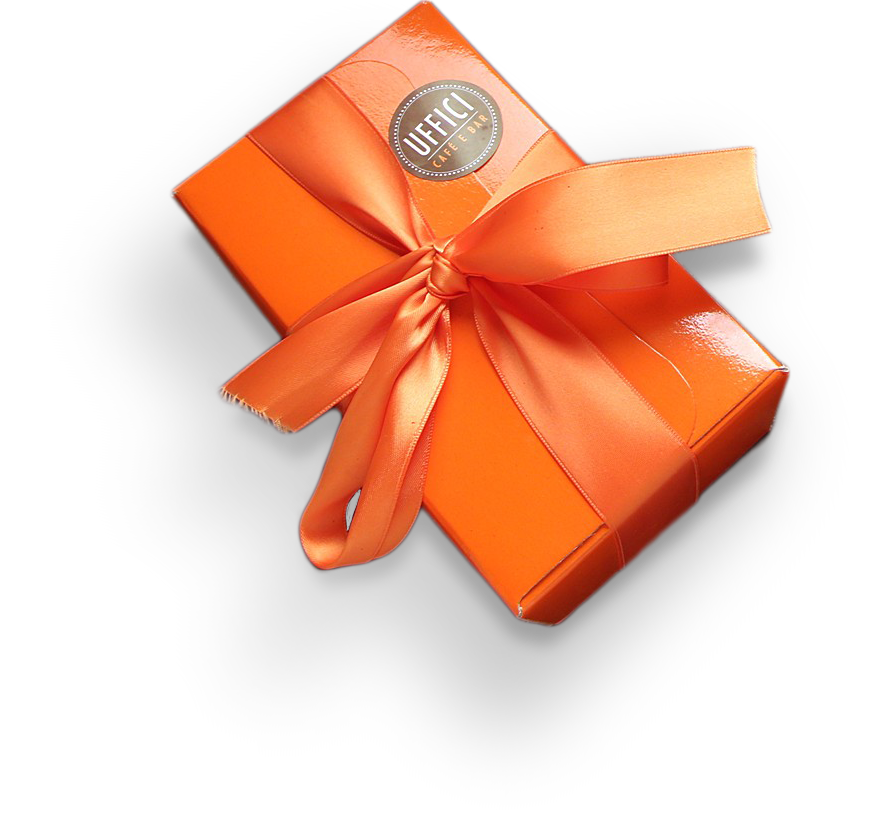
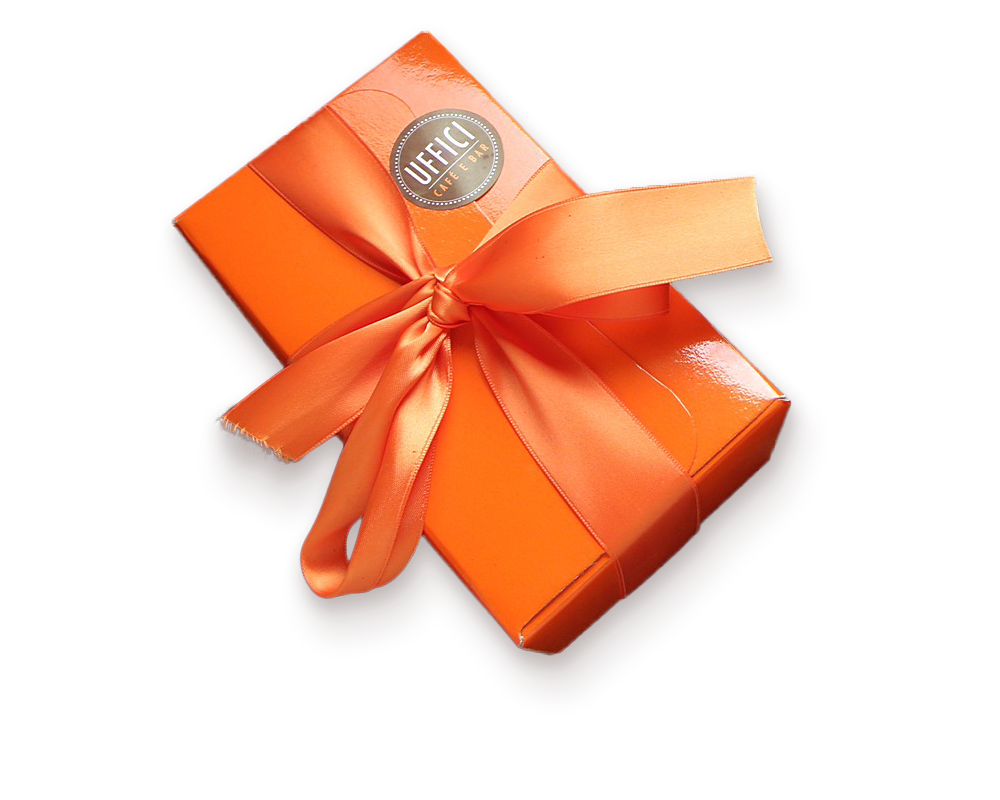
skrollr

diff --git a/js/skrollr.min.js b/js/skrollr.min.js
@@ -1,0 +1,2 @@
+/*! skrollr 0.6.30 (2015-08-12) | Alexander Prinzhorn - https://github.com/Prinzhorn/skrollr | Free to use under terms of MIT license */
+!function(a,b,c){"use strict";function d(c){if(e=b.documentElement,f=b.body,T(),ha=this,c=c||{},ma=c.constants||{},c.easing)for(var d in c.easing)W[d]=c.easing[d];ta=c.edgeStrategy||"set",ka={beforerender:c.beforerender,render:c.render,keyframe:c.keyframe},la=c.forceHeight!==!1,la&&(Ka=c.scale||1),na=c.mobileDeceleration||y,pa=c.smoothScrolling!==!1,qa=c.smoothScrollingDuration||A,ra={targetTop:ha.getScrollTop()},Sa=(c.mobileCheck||function(){return/Android|iPhone|iPad|iPod|BlackBerry/i.test(navigator.userAgent||navigator.vendor||a.opera)})(),Sa?(ja=b.getElementById(c.skrollrBody||z),ja&&ga(),X(),Ea(e,[s,v],[t])):Ea(e,[s,u],[t]),ha.refresh(),wa(a,"resize orientationchange",function(){var a=e.clientWidth,b=e.clientHeight;(b!==Pa||a!==Oa)&&(Pa=b,Oa=a,Qa=!0)});var g=U();return function h(){$(),va=g(h)}(),ha}var e,f,g={get:function(){return ha},init:function(a){return ha||new d(a)},VERSION:"0.6.30"},h=Object.prototype.hasOwnProperty,i=a.Math,j=a.getComputedStyle,k="touchstart",l="touchmove",m="touchcancel",n="touchend",o="skrollable",p=o+"-before",q=o+"-between",r=o+"-after",s="skrollr",t="no-"+s,u=s+"-desktop",v=s+"-mobile",w="linear",x=1e3,y=.004,z="skrollr-body",A=200,B="start",C="end",D="center",E="bottom",F="___skrollable_id",G=/^(?:input|textarea|button|select)$/i,H=/^\s+|\s+$/g,I=/^data(?:-(_\w+))?(?:-?(-?\d*\.?\d+p?))?(?:-?(start|end|top|center|bottom))?(?:-?(top|center|bottom))?$/,J=/\s*(@?[\w\-\[\]]+)\s*:\s*(.+?)\s*(?:;|$)/gi,K=/^(@?[a-z\-]+)\[(\w+)\]$/,L=/-([a-z0-9_])/g,M=function(a,b){return b.toUpperCase()},N=/[\-+]?[\d]*\.?[\d]+/g,O=/\{\?\}/g,P=/rgba?\(\s*-?\d+\s*,\s*-?\d+\s*,\s*-?\d+/g,Q=/[a-z\-]+-gradient/g,R="",S="",T=function(){var a=/^(?:O|Moz|webkit|ms)|(?:-(?:o|moz|webkit|ms)-)/;if(j){var b=j(f,null);for(var c in b)if(R=c.match(a)||+c==c&&b[c].match(a))break;if(!R)return void(R=S="");R=R[0],"-"===R.slice(0,1)?(S=R,R={"-webkit-":"webkit","-moz-":"Moz","-ms-":"ms","-o-":"O"}[R]):S="-"+R.toLowerCase()+"-"}},U=function(){var b=a.requestAnimationFrame||a[R.toLowerCase()+"RequestAnimationFrame"],c=Ha();return(Sa||!b)&&(b=function(b){var d=Ha()-c,e=i.max(0,1e3/60-d);return a.setTimeout(function(){c=Ha(),b()},e)}),b},V=function(){var b=a.cancelAnimationFrame||a[R.toLowerCase()+"CancelAnimationFrame"];return(Sa||!b)&&(b=function(b){return a.clearTimeout(b)}),b},W={begin:function(){return 0},end:function(){return 1},linear:function(a){return a},quadratic:function(a){return a*a},cubic:function(a){return a*a*a},swing:function(a){return-i.cos(a*i.PI)/2+.5},sqrt:function(a){return i.sqrt(a)},outCubic:function(a){return i.pow(a-1,3)+1},bounce:function(a){var b;if(.5083>=a)b=3;else if(.8489>=a)b=9;else if(.96208>=a)b=27;else{if(!(.99981>=a))return 1;b=91}return 1-i.abs(3*i.cos(a*b*1.028)/b)}};d.prototype.refresh=function(a){var d,e,f=!1;for(a===c?(f=!0,ia=[],Ra=0,a=b.getElementsByTagName("*")):a.length===c&&(a=[a]),d=0,e=a.length;e>d;d++){var g=a[d],h=g,i=[],j=pa,k=ta,l=!1;if(f&&F in g&&delete g[F],g.attributes){for(var m=0,n=g.attributes.length;n>m;m++){var p=g.attributes[m];if("data-anchor-target"!==p.name)if("data-smooth-scrolling"!==p.name)if("data-edge-strategy"!==p.name)if("data-emit-events"!==p.name){var q=p.name.match(I);if(null!==q){var r={props:p.value,element:g,eventType:p.name.replace(L,M)};i.push(r);var s=q[1];s&&(r.constant=s.substr(1));var t=q[2];/p$/.test(t)?(r.isPercentage=!0,r.offset=(0|t.slice(0,-1))/100):r.offset=0|t;var u=q[3],v=q[4]||u;u&&u!==B&&u!==C?(r.mode="relative",r.anchors=[u,v]):(r.mode="absolute",u===C?r.isEnd=!0:r.isPercentage||(r.offset=r.offset*Ka))}}else l=!0;else k=p.value;else j="off"!==p.value;else if(h=b.querySelector(p.value),null===h)throw'Unable to find anchor target "'+p.value+'"'}if(i.length){var w,x,y;!f&&F in g?(y=g[F],w=ia[y].styleAttr,x=ia[y].classAttr):(y=g[F]=Ra++,w=g.style.cssText,x=Da(g)),ia[y]={element:g,styleAttr:w,classAttr:x,anchorTarget:h,keyFrames:i,smoothScrolling:j,edgeStrategy:k,emitEvents:l,lastFrameIndex:-1},Ea(g,[o],[])}}}for(Aa(),d=0,e=a.length;e>d;d++){var z=ia[a[d][F]];z!==c&&(_(z),ba(z))}return ha},d.prototype.relativeToAbsolute=function(a,b,c){var d=e.clientHeight,f=a.getBoundingClientRect(),g=f.top,h=f.bottom-f.top;return b===E?g-=d:b===D&&(g-=d/2),c===E?g+=h:c===D&&(g+=h/2),g+=ha.getScrollTop(),g+.5|0},d.prototype.animateTo=function(a,b){b=b||{};var d=Ha(),e=ha.getScrollTop(),f=b.duration===c?x:b.duration;return oa={startTop:e,topDiff:a-e,targetTop:a,duration:f,startTime:d,endTime:d+f,easing:W[b.easing||w],done:b.done},oa.topDiff||(oa.done&&oa.done.call(ha,!1),oa=c),ha},d.prototype.stopAnimateTo=function(){oa&&oa.done&&oa.done.call(ha,!0),oa=c},d.prototype.isAnimatingTo=function(){return!!oa},d.prototype.isMobile=function(){return Sa},d.prototype.setScrollTop=function(b,c){return sa=c===!0,Sa?Ta=i.min(i.max(b,0),Ja):a.scrollTo(0,b),ha},d.prototype.getScrollTop=function(){return Sa?Ta:a.pageYOffset||e.scrollTop||f.scrollTop||0},d.prototype.getMaxScrollTop=function(){return Ja},d.prototype.on=function(a,b){return ka[a]=b,ha},d.prototype.off=function(a){return delete ka[a],ha},d.prototype.destroy=function(){var a=V();a(va),ya(),Ea(e,[t],[s,u,v]);for(var b=0,d=ia.length;d>b;b++)fa(ia[b].element);e.style.overflow=f.style.overflow="",e.style.height=f.style.height="",ja&&g.setStyle(ja,"transform","none"),ha=c,ja=c,ka=c,la=c,Ja=0,Ka=1,ma=c,na=c,La="down",Ma=-1,Oa=0,Pa=0,Qa=!1,oa=c,pa=c,qa=c,ra=c,sa=c,Ra=0,ta=c,Sa=!1,Ta=0,ua=c};var X=function(){var d,g,h,j,o,p,q,r,s,t,u,v;wa(e,[k,l,m,n].join(" "),function(a){var e=a.changedTouches[0];for(j=a.target;3===j.nodeType;)j=j.parentNode;switch(o=e.clientY,p=e.clientX,t=a.timeStamp,G.test(j.tagName)||a.preventDefault(),a.type){case k:d&&d.blur(),ha.stopAnimateTo(),d=j,g=q=o,h=p,s=t;break;case l:G.test(j.tagName)&&b.activeElement!==j&&a.preventDefault(),r=o-q,v=t-u,ha.setScrollTop(Ta-r,!0),q=o,u=t;break;default:case m:case n:var f=g-o,w=h-p,x=w*w+f*f;if(49>x){if(!G.test(d.tagName)){d.focus();var y=b.createEvent("MouseEvents");y.initMouseEvent("click",!0,!0,a.view,1,e.screenX,e.screenY,e.clientX,e.clientY,a.ctrlKey,a.altKey,a.shiftKey,a.metaKey,0,null),d.dispatchEvent(y)}return}d=c;var z=r/v;z=i.max(i.min(z,3),-3);var A=i.abs(z/na),B=z*A+.5*na*A*A,C=ha.getScrollTop()-B,D=0;C>Ja?(D=(Ja-C)/B,C=Ja):0>C&&(D=-C/B,C=0),A*=1-D,ha.animateTo(C+.5|0,{easing:"outCubic",duration:A})}}),a.scrollTo(0,0),e.style.overflow=f.style.overflow="hidden"},Y=function(){var a,b,c,d,f,g,h,j,k,l,m,n=e.clientHeight,o=Ba();for(j=0,k=ia.length;k>j;j++)for(a=ia[j],b=a.element,c=a.anchorTarget,d=a.keyFrames,f=0,g=d.length;g>f;f++)h=d[f],l=h.offset,m=o[h.constant]||0,h.frame=l,h.isPercentage&&(l*=n,h.frame=l),"relative"===h.mode&&(fa(b),h.frame=ha.relativeToAbsolute(c,h.anchors[0],h.anchors[1])-l,fa(b,!0)),h.frame+=m,la&&!h.isEnd&&h.frame>Ja&&(Ja=h.frame);for(Ja=i.max(Ja,Ca()),j=0,k=ia.length;k>j;j++){for(a=ia[j],d=a.keyFrames,f=0,g=d.length;g>f;f++)h=d[f],m=o[h.constant]||0,h.isEnd&&(h.frame=Ja-h.offset+m);a.keyFrames.sort(Ia)}},Z=function(a,b){for(var c=0,d=ia.length;d>c;c++){var e,f,i=ia[c],j=i.element,k=i.smoothScrolling?a:b,l=i.keyFrames,m=l.length,n=l[0],s=l[l.length-1],t=k<n.frame,u=k>s.frame,v=t?n:s,w=i.emitEvents,x=i.lastFrameIndex;if(t||u){if(t&&-1===i.edge||u&&1===i.edge)continue;switch(t?(Ea(j,[p],[r,q]),w&&x>-1&&(za(j,n.eventType,La),i.lastFrameIndex=-1)):(Ea(j,[r],[p,q]),w&&m>x&&(za(j,s.eventType,La),i.lastFrameIndex=m)),i.edge=t?-1:1,i.edgeStrategy){case"reset":fa(j);continue;case"ease":k=v.frame;break;default:case"set":var y=v.props;for(e in y)h.call(y,e)&&(f=ea(y[e].value),0===e.indexOf("@")?j.setAttribute(e.substr(1),f):g.setStyle(j,e,f));continue}}else 0!==i.edge&&(Ea(j,[o,q],[p,r]),i.edge=0);for(var z=0;m-1>z;z++)if(k>=l[z].frame&&k<=l[z+1].frame){var A=l[z],B=l[z+1];for(e in A.props)if(h.call(A.props,e)){var C=(k-A.frame)/(B.frame-A.frame);C=A.props[e].easing(C),f=da(A.props[e].value,B.props[e].value,C),f=ea(f),0===e.indexOf("@")?j.setAttribute(e.substr(1),f):g.setStyle(j,e,f)}w&&x!==z&&("down"===La?za(j,A.eventType,La):za(j,B.eventType,La),i.lastFrameIndex=z);break}}},$=function(){Qa&&(Qa=!1,Aa());var a,b,d=ha.getScrollTop(),e=Ha();if(oa)e>=oa.endTime?(d=oa.targetTop,a=oa.done,oa=c):(b=oa.easing((e-oa.startTime)/oa.duration),d=oa.startTop+b*oa.topDiff|0),ha.setScrollTop(d,!0);else if(!sa){var f=ra.targetTop-d;f&&(ra={startTop:Ma,topDiff:d-Ma,targetTop:d,startTime:Na,endTime:Na+qa}),e<=ra.endTime&&(b=W.sqrt((e-ra.startTime)/qa),d=ra.startTop+b*ra.topDiff|0)}if(sa||Ma!==d){La=d>Ma?"down":Ma>d?"up":La,sa=!1;var h={curTop:d,lastTop:Ma,maxTop:Ja,direction:La},i=ka.beforerender&&ka.beforerender.call(ha,h);i!==!1&&(Z(d,ha.getScrollTop()),Sa&&ja&&g.setStyle(ja,"transform","translate(0, "+-Ta+"px) "+ua),Ma=d,ka.render&&ka.render.call(ha,h)),a&&a.call(ha,!1)}Na=e},_=function(a){for(var b=0,c=a.keyFrames.length;c>b;b++){for(var d,e,f,g,h=a.keyFrames[b],i={};null!==(g=J.exec(h.props));)f=g[1],e=g[2],d=f.match(K),null!==d?(f=d[1],d=d[2]):d=w,e=e.indexOf("!")?aa(e):[e.slice(1)],i[f]={value:e,easing:W[d]};h.props=i}},aa=function(a){var b=[];return P.lastIndex=0,a=a.replace(P,function(a){return a.replace(N,function(a){return a/255*100+"%"})}),S&&(Q.lastIndex=0,a=a.replace(Q,function(a){return S+a})),a=a.replace(N,function(a){return b.push(+a),"{?}"}),b.unshift(a),b},ba=function(a){var b,c,d={};for(b=0,c=a.keyFrames.length;c>b;b++)ca(a.keyFrames[b],d);for(d={},b=a.keyFrames.length-1;b>=0;b--)ca(a.keyFrames[b],d)},ca=function(a,b){var c;for(c in b)h.call(a.props,c)||(a.props[c]=b[c]);for(c in a.props)b[c]=a.props[c]},da=function(a,b,c){var d,e=a.length;if(e!==b.length)throw"Can't interpolate between \""+a[0]+'" and "'+b[0]+'"';var f=[a[0]];for(d=1;e>d;d++)f[d]=a[d]+(b[d]-a[d])*c;return f},ea=function(a){var b=1;return O.lastIndex=0,a[0].replace(O,function(){return a[b++]})},fa=function(a,b){a=[].concat(a);for(var c,d,e=0,f=a.length;f>e;e++)d=a[e],c=ia[d[F]],c&&(b?(d.style.cssText=c.dirtyStyleAttr,Ea(d,c.dirtyClassAttr)):(c.dirtyStyleAttr=d.style.cssText,c.dirtyClassAttr=Da(d),d.style.cssText=c.styleAttr,Ea(d,c.classAttr)))},ga=function(){ua="translateZ(0)",g.setStyle(ja,"transform",ua);var a=j(ja),b=a.getPropertyValue("transform"),c=a.getPropertyValue(S+"transform"),d=b&&"none"!==b||c&&"none"!==c;d||(ua="")};g.setStyle=function(a,b,c){var d=a.style;if(b=b.replace(L,M).replace("-",""),"zIndex"===b)isNaN(c)?d[b]=c:d[b]=""+(0|c);else if("float"===b)d.styleFloat=d.cssFloat=c;else try{R&&(d[R+b.slice(0,1).toUpperCase()+b.slice(1)]=c),d[b]=c}catch(e){}};var ha,ia,ja,ka,la,ma,na,oa,pa,qa,ra,sa,ta,ua,va,wa=g.addEvent=function(b,c,d){var e=function(b){return b=b||a.event,b.target||(b.target=b.srcElement),b.preventDefault||(b.preventDefault=function(){b.returnValue=!1,b.defaultPrevented=!0}),d.call(this,b)};c=c.split(" ");for(var f,g=0,h=c.length;h>g;g++)f=c[g],b.addEventListener?b.addEventListener(f,d,!1):b.attachEvent("on"+f,e),Ua.push({element:b,name:f,listener:d})},xa=g.removeEvent=function(a,b,c){b=b.split(" ");for(var d=0,e=b.length;e>d;d++)a.removeEventListener?a.removeEventListener(b[d],c,!1):a.detachEvent("on"+b[d],c)},ya=function(){for(var a,b=0,c=Ua.length;c>b;b++)a=Ua[b],xa(a.element,a.name,a.listener);Ua=[]},za=function(a,b,c){ka.keyframe&&ka.keyframe.call(ha,a,b,c)},Aa=function(){var a=ha.getScrollTop();Ja=0,la&&!Sa&&(f.style.height=""),Y(),la&&!Sa&&(f.style.height=Ja+e.clientHeight+"px"),Sa?ha.setScrollTop(i.min(ha.getScrollTop(),Ja)):ha.setScrollTop(a,!0),sa=!0},Ba=function(){var a,b,c=e.clientHeight,d={};for(a in ma)b=ma[a],"function"==typeof b?b=b.call(ha):/p$/.test(b)&&(b=b.slice(0,-1)/100*c),d[a]=b;return d},Ca=function(){var a,b=0;return ja&&(b=i.max(ja.offsetHeight,ja.scrollHeight)),a=i.max(b,f.scrollHeight,f.offsetHeight,e.scrollHeight,e.offsetHeight,e.clientHeight),a-e.clientHeight},Da=function(b){var c="className";return a.SVGElement&&b instanceof a.SVGElement&&(b=b[c],c="baseVal"),b[c]},Ea=function(b,d,e){var f="className";if(a.SVGElement&&b instanceof a.SVGElement&&(b=b[f],f="baseVal"),e===c)return void(b[f]=d);for(var g=b[f],h=0,i=e.length;i>h;h++)g=Ga(g).replace(Ga(e[h])," ");g=Fa(g);for(var j=0,k=d.length;k>j;j++)-1===Ga(g).indexOf(Ga(d[j]))&&(g+=" "+d[j]);b[f]=Fa(g)},Fa=function(a){return a.replace(H,"")},Ga=function(a){return" "+a+" "},Ha=Date.now||function(){return+new Date},Ia=function(a,b){return a.frame-b.frame},Ja=0,Ka=1,La="down",Ma=-1,Na=Ha(),Oa=0,Pa=0,Qa=!1,Ra=0,Sa=!1,Ta=0,Ua=[];"function"==typeof define&&define.amd?define([],function(){return g}):"undefined"!=typeof module&&module.exports?module.exports=g:a.skrollr=g}(window,document);

diff --git a/etaireia.html b/etaireia.html
@@ -11,7 +11,7 @@
 	<link rel="stylesheet" href="css/bootstrap.min.css">
 	<link rel="stylesheet" href="css/style.css">
 </head>
-<body>
+<body id="skrollr-body">
 
 <!--Header-->
 
@@ -156,11 +156,11 @@
 							<div class="right-border"></div>
 						</div>
 						<div class="col-lg-5 z-index-1 px-0">
-							<div class="gift-image">
+							<div class="gift-image relative" data-0="bottom:-300px;" data-center="bottom:0;" ">
 								<img class="d-block" src="images/gift.png">
 							</div>
 						</div>
-						<div class="col-lg-7 py-3 py-xl-5 px-3 px-lg-5">
+						<div class="col-lg-7 py-3 px-3 px-lg-5">
 							<div class="py-3 px-0 px-lg-5">
 								<div class="row">
 									<div class="col-lg-10">
@@ -500,6 +500,23 @@
 <script src="js/bootstrap.min.js"></script>
 <script src="js/jquery.matchHeight-min.js"></script>
 <script src="js/script.js"></script>
-<script src="js/etaireia.js"></script>
+<script src="js/skrollr.min.js"></script>
+<script type="text/javascript">
+$(function() {
+	if (width > 992) {
+      skrollr.init({forceHeight: false}); // skrollr.init() returns the singleton created above
+    } else {
+      skrollr.init().destroy(); // skrollr.init() returns the singleton created above
+    }
+
+    $(window).resize(function() {
+    	if (width > 992) {
+	      skrollr.init({forceHeight: false}); // skrollr.init() returns the singleton created above
+	    } else {
+	      skrollr.init().destroy(); // skrollr.init() returns the singleton created above
+	    }
+    })
+})
+</script>
 </body>
 </html>

diff --git a/css/style.css b/css/style.css
@@ -1456,18 +1456,14 @@ header .mynavbar .navbar-brand img {
 }
 
 /* line 32, ../sass/partials/_etaireia.scss */
-.content.product-content .piato.gift .gift-image img {
-  -moz-transform: translate(-20px, 20px);
-  -ms-transform: translate(-20px, 20px);
-  -webkit-transform: translate(-20px, 20px);
-  transform: translate(-20px, 20px);
-  -moz-transition: all 0.5s;
-  -o-transition: all 0.5s;
-  -webkit-transition: all 0.5s;
-  transition: all 0.5s;
+.content.product-content .piato.gift .gift-image {
+  -moz-transition: all 0.3s linear;
+  -o-transition: all 0.3s linear;
+  -webkit-transition: all 0.3s linear;
+  transition: all 0.3s linear;
 }
 
-/* line 37, ../sass/partials/_etaireia.scss */
+/* line 36, ../sass/partials/_etaireia.scss */
 .content.product-content .piato.gift .borders.etaireia-borders {
   width: 80%;
   left: 50%;
@@ -1479,14 +1475,14 @@ header .mynavbar .navbar-brand img {
   transform: translateX(-50%);
 }
 @media only screen and (max-width: 992px) {
-  /* line 37, ../sass/partials/_etaireia.scss */
+  /* line 36, ../sass/partials/_etaireia.scss */
   .content.product-content .piato.gift .borders.etaireia-borders {
     width: 110%;
     height: 100%;
   }
 }
 
-/* line 50, ../sass/partials/_etaireia.scss */
+/* line 49, ../sass/partials/_etaireia.scss */
 .transform-none {
   -moz-transform: none !important;
   -ms-transform: none !important;

diff --git a/sass/partials/_etaireia.scss b/sass/partials/_etaireia.scss
@@ -29,9 +29,8 @@
 	}
 }
 
-.content.product-content .piato.gift .gift-image img {
-	@include transform(translate(-20px,20px));
-	@include transition(all .5s);
+.content.product-content .piato.gift .gift-image {
+	@include transition(all .3s linear);
 }
 
 .content.product-content .piato.gift .borders.etaireia-borders {
